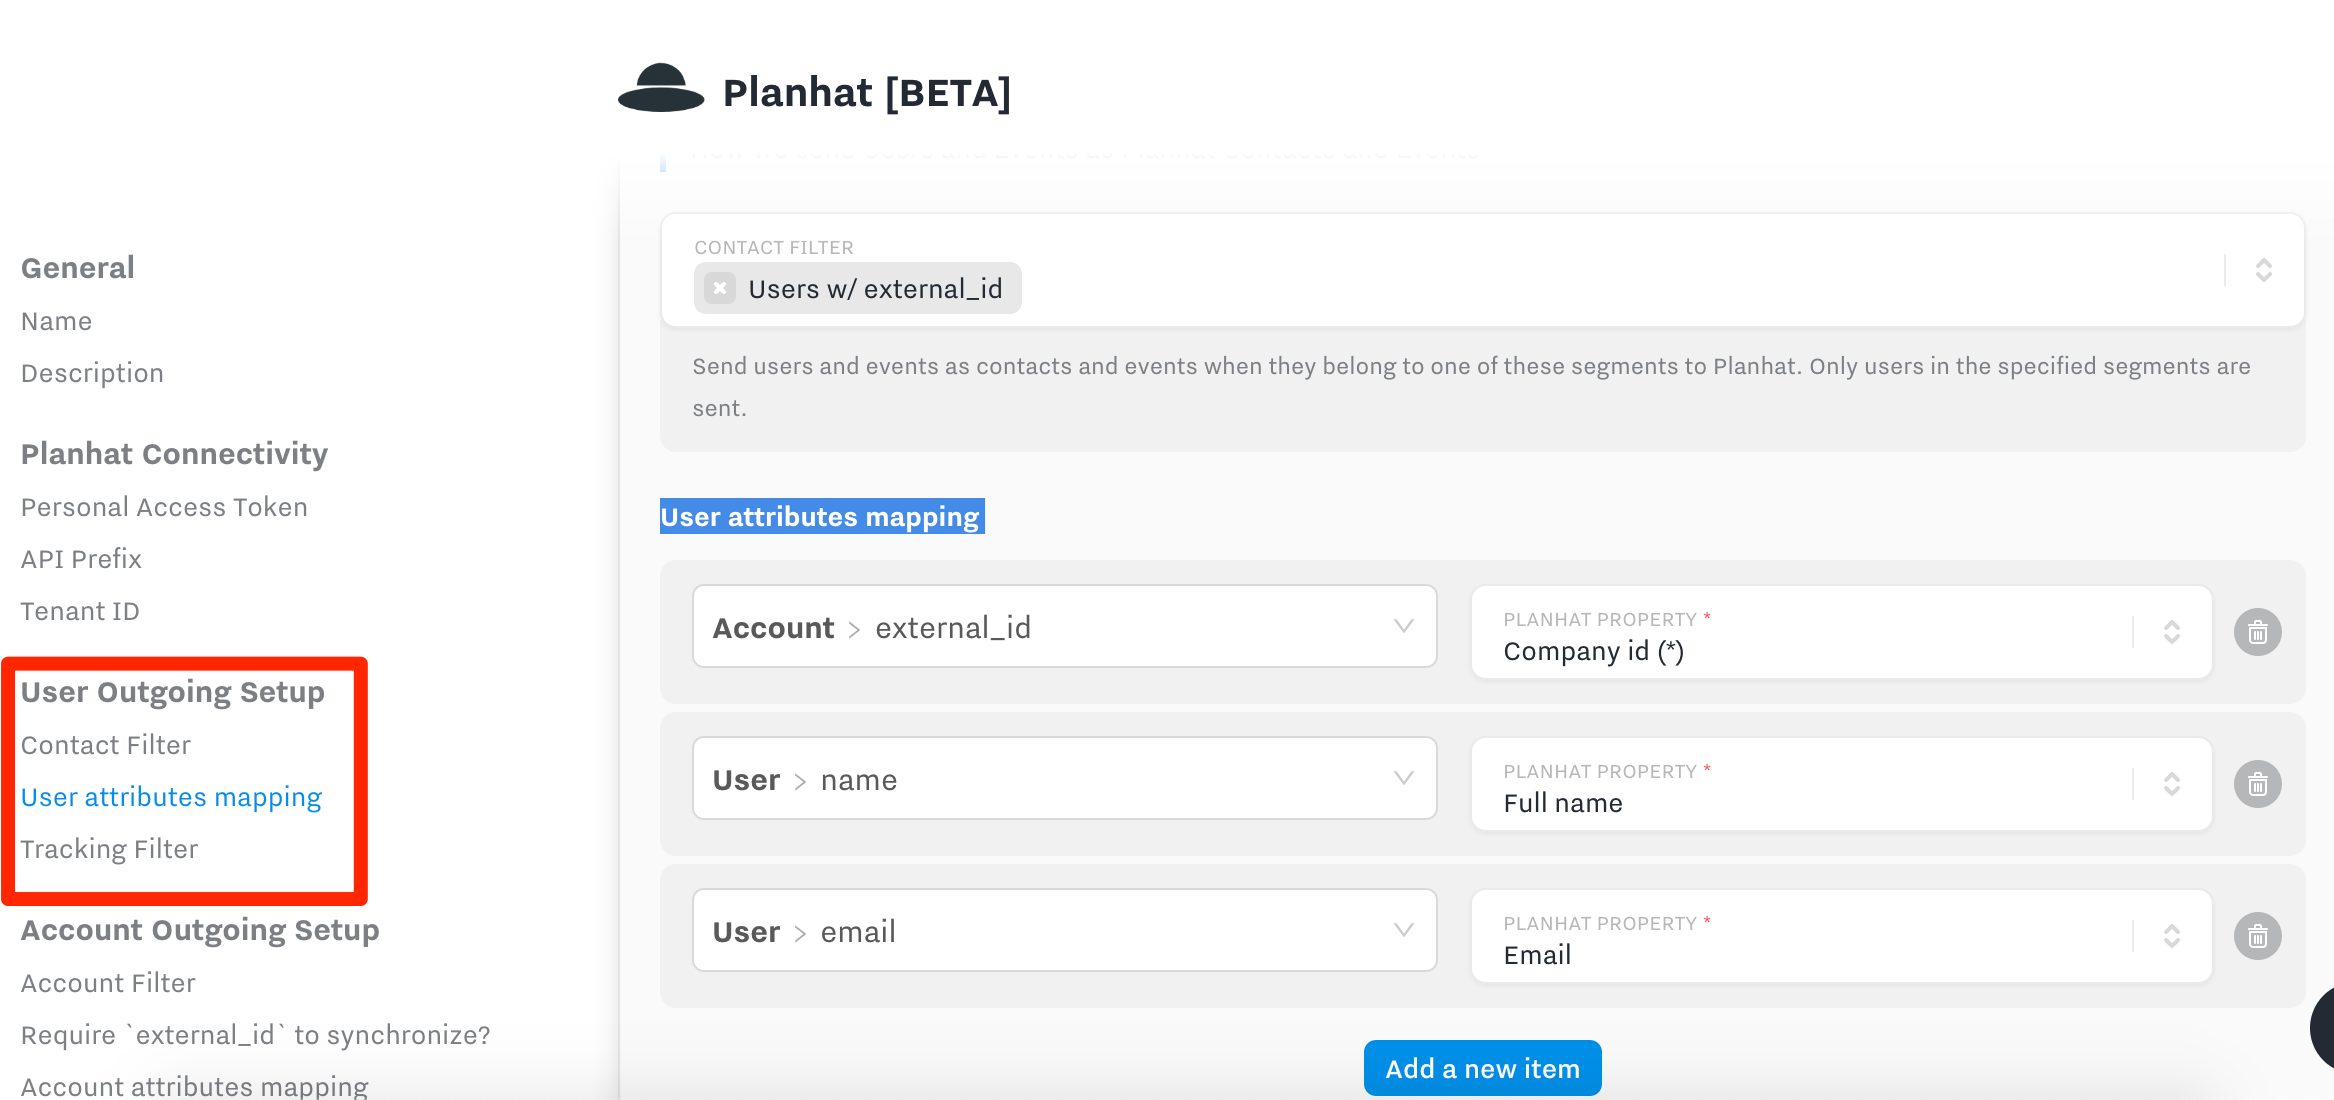
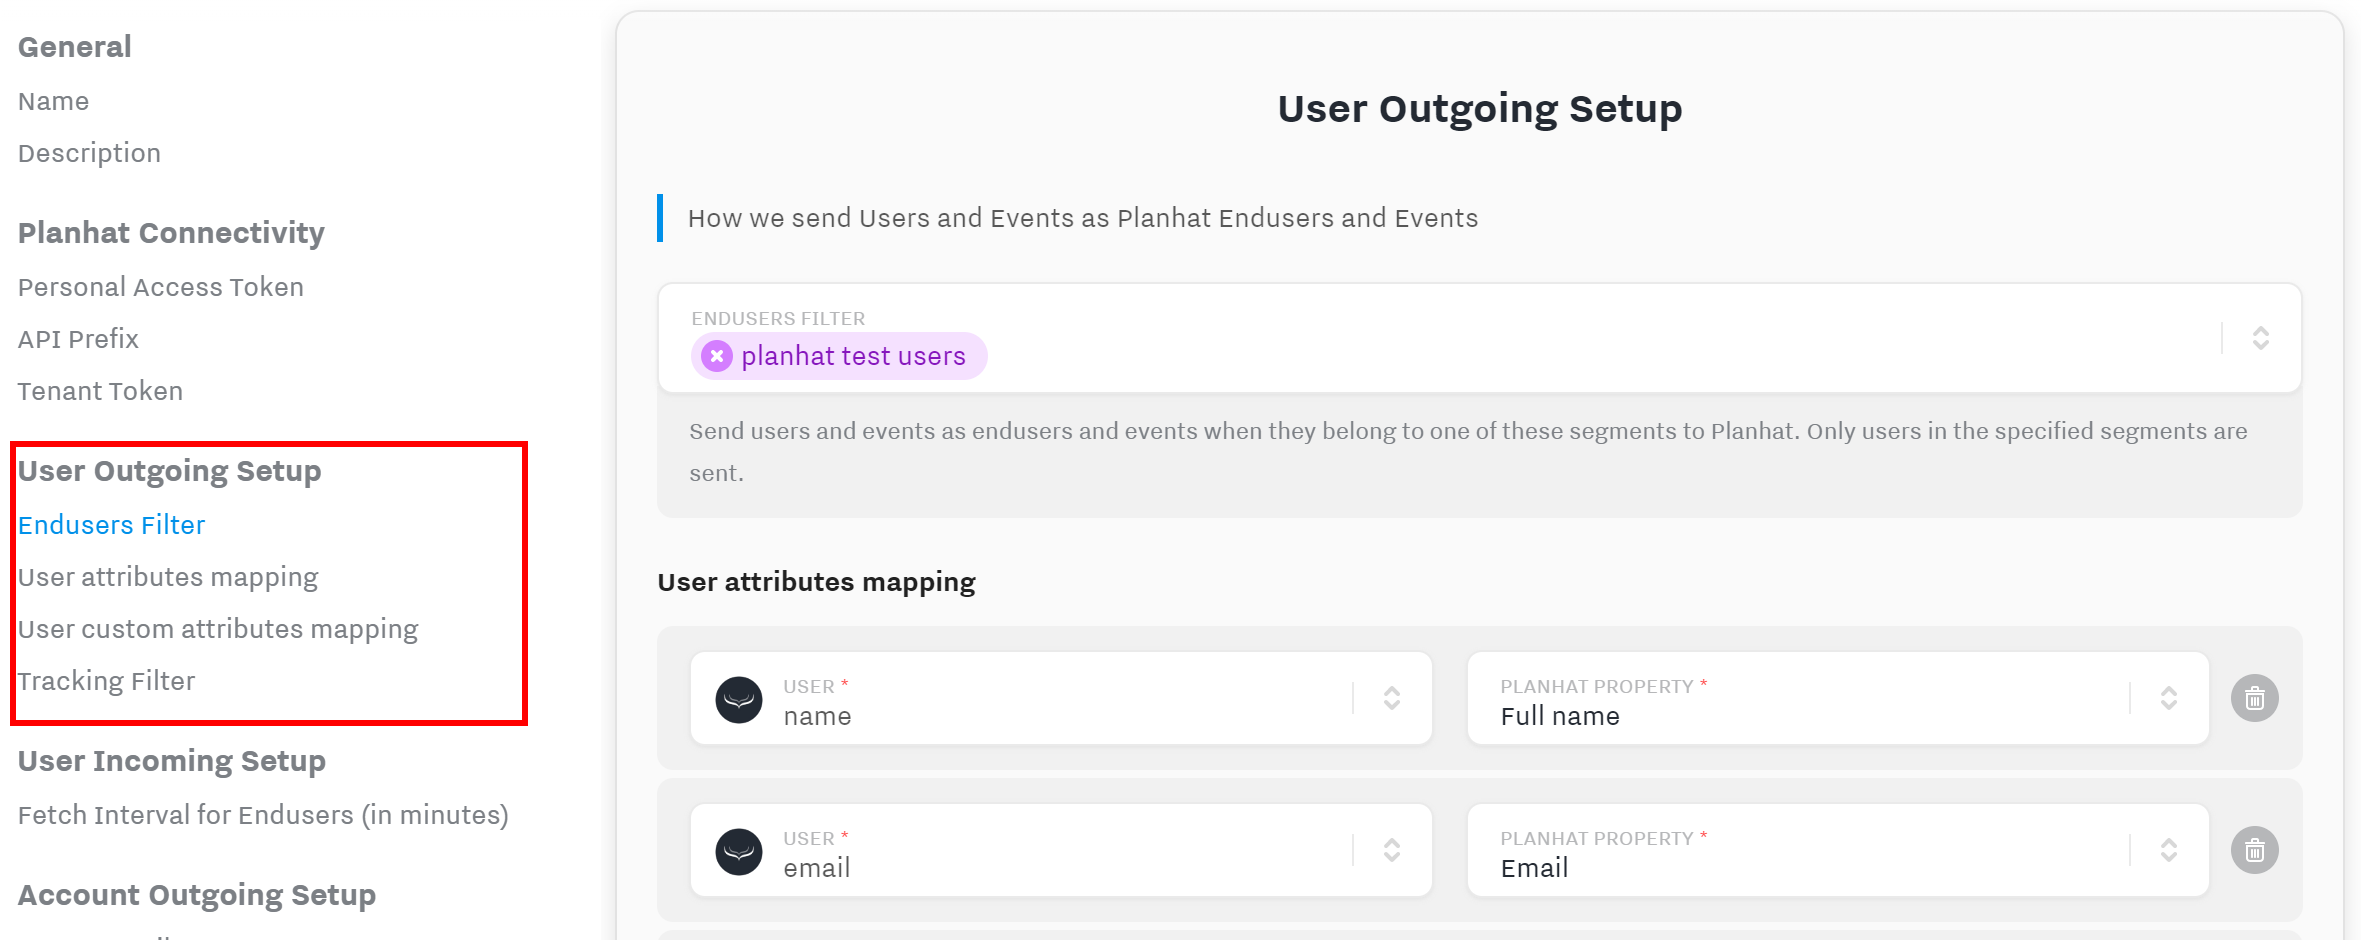
Update docs, closes #6

diff --git a/assets/readme.md b/assets/readme.md
@@ -1,15 +1,13 @@
 # Hull - Planhat Connector
 
-> This connector is currently in Beta. While we always strive for high quality releases, we cannot guarantee that beta connectors are free of bugs.
+This Connector enables you to synchronize Hull users and accounts to Planhat endusers and companies and also allows you to track events in Planhat.
 
-This connector enables you to send Hull user and accounts to Planhat contacts and companies and also allows you to track events in Planhat.
-
-This document was last updated on August 29, 2019. If you want to help us improve this documentation or have some feedback, please [contact us](https://help.hull.io/hc/en-us/requests/new)!
+This document was last updated on May 1, 2020. If you want to help us improve this documentation or have some feedback, please feel free to [open a GitHub issue](https://github.com/SMK1085/hull-planhat/issues/new)!
 
 ## Getting Started
 
-1. From your Hull Connectors page click on 'Add a connector'
-2. Search for 'Facebook Offline Conversions' and click on 'Install'
+1. From your Hull Connectors page click on `[Add a Connector]`
+2. Search for "Planhat" and click on `[Install]`
 3. Authorize Hull to send data on your behalf by configuring the Planhat Connectivity section:
    ![Authorize Hull](./docs/getting_started_01.png)
    Please obtain the `Personal Access Token` and `Tenant Token` from Planhat as well as the `API Prefix`. If you need help in obtaining any of this information, please refer to the [Planhat documentation](https://docs.planhat.com).
@@ -18,17 +16,17 @@ This document was last updated on August 29, 2019. If you want to help us improv
 
 ### User data from Hull to Contacts in Planhat
 
-You can synchronize user attributes from Hull with Planhat contacts by specifying one or more user segments in the `Endusers Filter` and making the required mappings under `User attributes mapping`:
+You can synchronize user attributes from Hull with Planhat Endusers by specifying one or more user segments in the `Endusers Filter` and configuring the required mappings under `User attributes mapping`:
 ![Configure outgoing user data](./docs/outgoing_data_01.png)
 
-_Note_: The segments cannot have the event as a condition, because evaluation takes place after the event occured. So the connector won't recognize that the user is in the segment. We recommend to use a generic segment, e.g. users with external_ids which ensures that users will be in the segment before the event is registered.
+_Note_: If you plan to send events, keep in mind that the segments used in the filter cannot have the event as a condition, because evaluation takes place after the event had occured. So the Connector won't recognize that the user is in the segment in time, thus resulting in the event not being tracked in Planhat. We recommend to use a generic segment, e.g. users with external_ids, which ensures that users will be in the segment before the event is registered.
 
-The connector will check the conditions in the following order:
+The Connector will check the conditions in the following order:
 
 1. Check if the user is in one of the segments listed under `Endusers Filter`
 2. Check if a new event occured which is in the `Tracking Filter`
 
-The connector will send events with the `action` set to name of the event in Hull and all properties passed as `info` parameter to the Planhat API. If present, the name, email and external_id of the Hull user will be send along to attribute the event to the appropriate Enduser in Planhat.
+The Connector will send events with the `action` set to name of the event in Hull and all properties passed as `info` parameter to the Planhat API. If present, the name, email and external_id of the Hull user will be sent along to attribute the event to the appropriate Enduser in Planhat.
 
 ### Account data from Hull to Companies in Planhat
 
@@ -37,44 +35,93 @@ You can synchronize account attributes from Hull with Planhat companies by speci
 
 Only accounts with an `external_id` in Hull can be synchronized to Planhat to ensure proper deduplication.
 
-If you want the connector to assign `Owner` and `Co-Owner` in Planhat, you need to specify an attribute which has the value of the Planhat ID of the User who should be the owner or co-owner. If you send an invalid value, the payload will be rejected by the connector and no API call to Planhat will be executed; the connector will log an `outgoing.account.skip` message in this case with a reason of `Invalid Owner ID` or `Invalid Co-Owner ID`. _This feature is available since version 0.1.5_
+If you want the Connector to assign `Owner` and `Co-Owner` in Planhat, you need to specify an attribute which has the value of the Planhat ID of the User, who should be the owner or co-owner. If you send an invalid value, the payload will be rejected by the Connector and no API call to Planhat will be executed; in this case the Connector will log an `outgoing.account.skip` message with a reason of `Invalid Owner ID` or `Invalid Co-Owner ID`.
 
-_Note_: The account must be in one of the whitelisted segments. The connector won't synchronize a linked account based on the fact that the user matches a whitlisted segment in the `Endusers Filter`.
+_This feature is available since version 0.1.5_.
+
+_Note_: The account must be in one of the whitelisted segments. The Connector won't synchronize a linked account based on the fact that the user matches a whitlisted segment in the `Endusers Filter`.
 
 #### Synchronization of Licenses
 
-Licenses are dependent objects from companies in Planhat. Hull doesn't have a dedicated object for licenses, but the Planhat connector enables you to synchronize an account attribute which needs to be of type `JSON`. This JSON attribute needs to be an array of objects and can be configured under `Licenses account attribute`.
-The next step to synchronize licenses is to specify the mappings for each object in the JSON array under `Licenses attributes mapping`. There is no input help available for the Hull Attribute, so be careful when mapping the data since the entries are case-sensitive. To avoid issues, you should stay clear of using spaces in the attributes stored in Hull.
-You also have the option to map custom attributes for licenses, please refer to the [Planhat docs](https://docs.planhat.com/?version=latest#0a0754bd-9def-4e21-afc4-0d0f2e3b58dd) for further details and best practices. _This feature is available since version 0.1.6_
+Licenses are dependent objects from companies in Planhat. Hull doesn't have a dedicated object for licenses, but the Planhat Connector enables you to synchronize an account attribute which needs to be of type `JSON`. This JSON attribute needs to be an array of objects and can be configured under `Licenses account attribute`.
+
+The next step to synchronize licenses is to specify the mappings for each object in the JSON array under `Licenses attributes mapping`. There is no input help available for the Hull Attribute, so be careful when mapping the data, since the entries are case-sensitive. To avoid issues, you should stay clear of using spaces in the attributes stored in Hull.
+
+You also have the option to map custom attributes for licenses, please refer to the [Planhat docs](https://docs.planhat.com/?version=latest#0a0754bd-9def-4e21-afc4-0d0f2e3b58dd) for further details and best practices.
+
+_This feature is available since version 0.1.6_.
+
+### Control Incoming Data Flow
+
+#### Fetching of Endusers
+
+The Connector fetches Planhat Enduser data on a scheduled interval, which can be configured in the Settings in the section `User Incoming Setup` as shown below:
+![Configure incoming user data](./docs/incoming_data_01.png)
+
+Since there is no change detection on the Planhat API, the Connector performs a full fetch, iterating over the entire portfolio in Planhat. The Connector has an internal mechanism to filter only updated Endusers since the last fetch to reduce the number of incoming requests in Hull, which is a billable metric.
+
+_This feature is available since version 0.1.7_.
+
+_Pro Tip:_ If you are uncertain about the proper interval, choose a higher one and review the `Logs` tab of the Connector to determine the job duration. You can filter for `message: incoming.job.success` in the logs and look at the data column, which contains the start and end timestamp.
+
+#### Fetching of Companies
+
+The Connector fetches Planhat Company data on a scheduled interval which can be configured in the Settings in the section `Account Incoming Setup`:
+![Configure incoming account data](./docs/incoming_data_02.png)
+
+Since there is no change detection on the Planhat API, the Connector performs a full fetch, iterating over the entire portfolio in Planhat. Keep in mind that every company in Planhat will result in one incoming request in Hull, which is a billable metric.
+
+_This feature is available since version 0.1.7_.
+
+_Pro Tip:_ If you are uncertain about the proper interval, choose a higher one and review the `Logs` tab of the Connector to determine the job duration. You can filter for `message: incoming.job.success` in the logs and look at the data column which contains the start and end timestamp.
 
 ### Internal API
 
-The connector exposes an internal API which you can leverage in the Processor to perform additional operations while using the configured authentication of your Planhat connector.
+The Connector exposes an internal API which you can leverage in the Processor to perform additional operations while using the configured authentication of your Planhat Connector.
 
-**Warning** This is an advanced feature of the connector and you are responsible for implementing the proper logic yourself. Please consult the Planhat documentation for additional information and/or Hull Support.
+**Warning:** This is an advanced feature of the Connector and you are responsible for implementing the proper logic yourself. Please consult the Planhat documentation for additional information and/or Hull Support.
 
 #### Authentication
 
-The internal API is secured with Basic Auth using the credentials of the connector:
+The internal API is secured with Basic Auth using the credentials of the Connector:
 
 | Basic Auth | Connector Credential |
 | ---------- | -------------------- |
 | Username   | Connector ID         |
 | Password   | Connector Secret     |
 
-The organization needs to be passed along as querystring parameter `org`. Request which are not properly authenticated will be rejected with error codes `400`, `401` or `403`.
+The organization needs to be passed along as querystring parameter `org`. Requests which are not properly authenticated will be rejected with error codes `400`, `401` or `403`.
 
 #### Users
 
-The connector exposes an internal API which allows the management of Users in Planhat to list, read, create or update users.
+The Connector exposes an internal API which allows the management of Users in Planhat to list, read, create or update users.
 
-| ID           | Endpoint                    | Method | Description                   |
-| ------------ | --------------------------- | ------ | ----------------------------- |
-| users.list   | /api/internal/users         | GET    | List all users (cached)       |
-| users.get    | /api/internal/users/:userId | GET    | Get a users by its Planhat ID |
-| users.create | /api/internal/users         | POST   | Create a new user             |
-| users.update | /api/internal/users/:userId | PUT    | Update an existing user       |
+| ID           | Endpoint                    | Method | Description                  |
+| ------------ | --------------------------- | ------ | ---------------------------- |
+| users.list   | /api/internal/users         | GET    | List all users (cached)      |
+| users.get    | /api/internal/users/:userId | GET    | Get a user by its Planhat ID |
+| users.create | /api/internal/users         | POST   | Create a new user            |
+| users.update | /api/internal/users/:userId | PUT    | Update an existing user      |
 
 The users endpoints are a wrapper around the Planhat API endpoints for Users as documented [here](https://docs.planhat.com/?version=latest#e6b6e1a8-e175-404b-8daf-71554c8c4264).
 
-**Note:** The list endpoint uses a caching mechanism and keeps results up to 10 minutes in the cache. To force cache invalidation, use the querystring parameter `&cacheclear=1`.
+**Note:** The list endpoint uses a caching mechanism and keeps results up to 10 minutes in the cache. To force cache invalidation use the querystring parameter `&cacheclear=1`.
+
+## FAQ
+
+### Why do you require an external ID for accounts to synchronize data to Planhat
+
+The Connector needs to be able to synchronize data reliably and without any side-effects to Planhat, thus also not creating duplicate accounts. Since the `externalId` is the only truly unique field on the `Company` object, the Connector can only rely on this field for the purpose of deduplication when sending data to the Planhat API.
+
+### What is the reason that you require the account being in a whitelisted segment to synchronize users
+
+Planhat is centered around the `Company`, which is in Hull equal to the `Account`. Resembling this mindset we have decided the `Account` to be the leading object for the synchronization to Planhat.
+Requiring the account being in a whitelisted segment enables you to use the filter for users to further narrow down the `Endusers`, which the Connector updates. A practical example: you might store in Hull all users linked to a given account, whether they use your product or not. But for your Customer Success team to be effective, you only want to synchronize users that are using your product. This becomes easy with the combined filtering logic. You can use the account filter to narrow down the accounts to customers only, excluding for example internal accounts. Now all you need to do is to create a user segment which resembles all active users of your product, and the Connector combines both segments. If you want to synchronize additional users for customer accounts later, you just add a new user segment and additional endusers will be kept in sync.
+
+### Why can I not choose a more frequent interval to fetch updates from Planhat
+
+The Planhat API doesn't have endpoints to fetch only recently updated objects or has sufficient webhooks to cover the needs for data synchronization as of now. Hence the Connector needs to page through your entire portfolio and pull all data in. Depending on the size of your data collection this can result in a large amount of data being transferred into Hull and long running jobs. This poses stability issues for long running jobs on the one hand and on the other hand results in many incoming requests, which are a billable metric in Hull. To prevent a lot of stress on both platforms, the available intervals are limited.
+
+### Where can I find the changelog for the Connector
+
+You can find the changelog on GitHub detailing what features have been added, what bugfixes have been applied and what technical maintenance measures have been taken: [Changelog](https://github.com/SMK1085/hull-planhat/blob/master/CHANGELOG.md).

diff --git a/README.md b/README.md
@@ -6,9 +6,9 @@ Hull connector for planhat.com
 
 ## Features
 
-### User Synchronization
+The Planhat Connector allows you to synchronize Hull User Profiles to Planhat EndUser objects and Hull Account Profiles to Planhat Company objects. The synchronization is bi-directional, however certain limitations apply for fetching data from Planhat due to technical limitations.
 
-The Planhat Connector allows you to synchronize Hull User Profiles to Planhat EndUser objects. Currently Hull to Planhat is the only supported direction for the data flow.
+### User Synchronization
 
 To establish a reliable synchronization, the following restrictions had to be put in place:
 
@@ -17,20 +17,43 @@ To establish a reliable synchronization, the following restrictions had to be pu
 
 The synchronization logic is implemented as described below:
 
-#### Matching Logic
+#### Matching Logic for Users
 
-Hull Users are matched to Planhat EndUsers with the email address. If an EndUsers with a matching email is found in Planhat, the Connector will perform an update, if no matching EndUser is found the connector will perform an insert. There is no normalization or any other manipulation of the email address implemented, the string is taken as-is.
+Hull Users are matched to Planhat EndUsers with the email address or external id. If an EndUsers with a matching email or external id is found in Planhat, the Connector will perform an update, if no matching EndUser is found, the Connector will perform an insert. There is no normalization or any other manipulation of the email address implemented, the string is taken as-is.
 
-#### Update Logic
+#### Update Logic for Users
 
 The Connector will only perform an update operation against the Planhat API if any of the synchronized attributes has changed. This is to prevent circular infinite data flows, because Planhat will modify the timestamp `updatedAt` regardless whether there has been a change or not.
 
 Performing a batch send operation for users will bypass the change detection and send all users in said batch to the API.
-One can leverage this fact to force a synchronization between Hull and Planhat in the absence of a reliable scheduled synchronization.
+
+#### Fetching Logic for Users
+
+The Connector fetches Planhat Enduser data on a scheduled interval which can be configured in the Settings. Since there is no change detection on the Planhat API, the Connector performs a full fetch, iterating over the entire portfolio in Planhat. The Connector has an internal mechanism to filter only updated Endusers since the last fetch to reduce the number of incoming requests in Hull which is a billable metric.
 
 ### Account Synchronization
 
-TBD
+To establish a reliable synchronization, the following restrictions apply:
+
+- Hull Accounts need to have an `external_id`
+
+The synchronization logic is implemented as described below:
+
+#### Matching Logic for Accounts
+
+Hull Users are matched to Planhat Companies by the external id. If a Company with a matching external id is found in Planhat, the Connector will perform an update, if no matching Company is found, the Connector will perform an insert.
+
+#### Update Logic for Accounts
+
+The Connector will only perform an update operation against the Planhat API if any of the synchronized attributes has changed. This is to prevent circular infinite data flows, because Planhat will modify the timestamp `updatedAt` regardless whether there has been a change or not.
+
+Performing a batch send operation for users will bypass the change detection and send all users in said batch to the API.
+
+#### Fetching Logic for Accounts
+
+The Connector fetches Planhat Company data on a scheduled interval which can be configured in the Settings. Since there is no change detection on the Planhat API, the Connector performs a full fetch, iterating over the entire portfolio in Planhat. Keep in mind that every company in Planhat will result in one incoming request in Hull which is billable.
+
+**Important**: The list endpoint of Planhat for companies does not provide all fields, please refer to the API docs for the available fields: [https://docs.planhat.com/?version=latest#d1025b71-e283-4fd4-a04d-ad87fdd0e46f](https://docs.planhat.com/?version=latest#d1025b71-e283-4fd4-a04d-ad87fdd0e46f)
 
 ### Internal API
 

diff --git a/CHANGELOG.md b/CHANGELOG.md
@@ -1,6 +1,6 @@
 # Changelog
 
-## Version 0.1.7 [BETA]
+## Version 0.1.7
 
 - [bugfix] Exclude field `createDate` from update detection in `PatchUtil`
 - [feature] Add status endpoint for Hull platform
